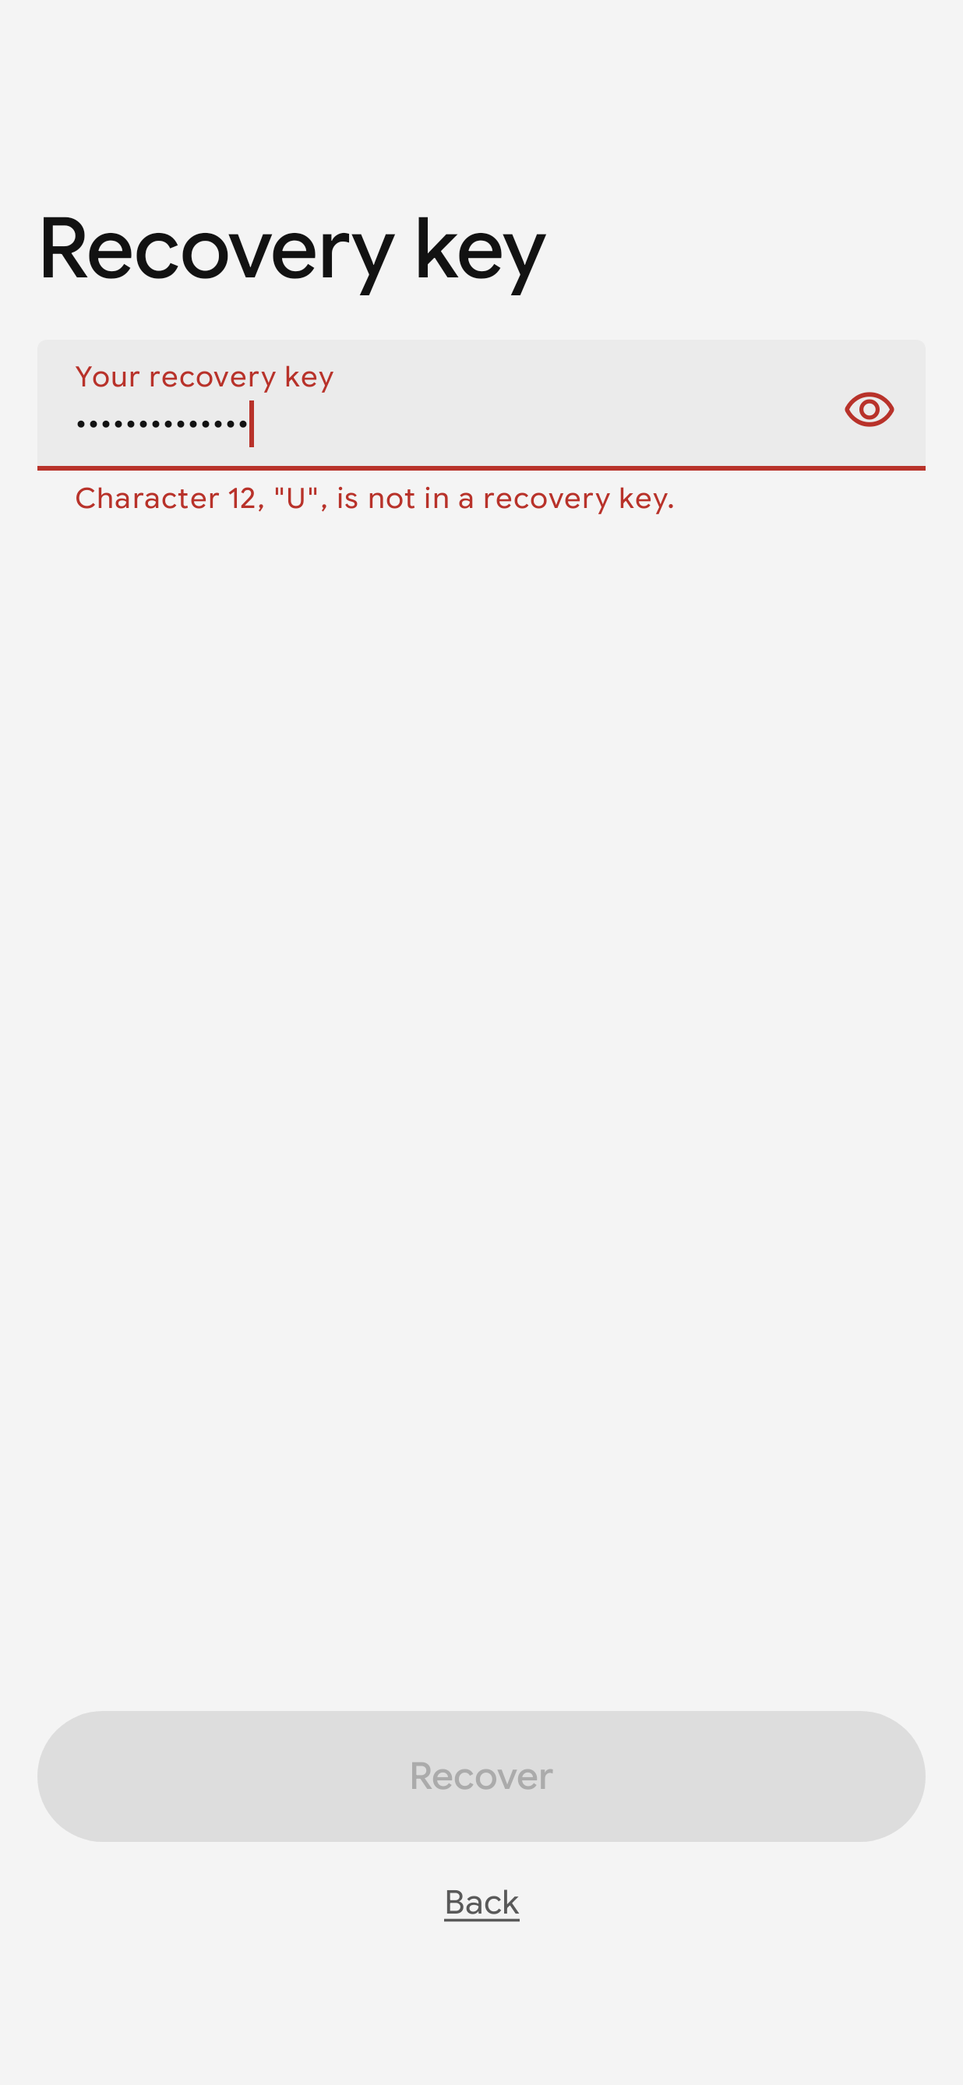
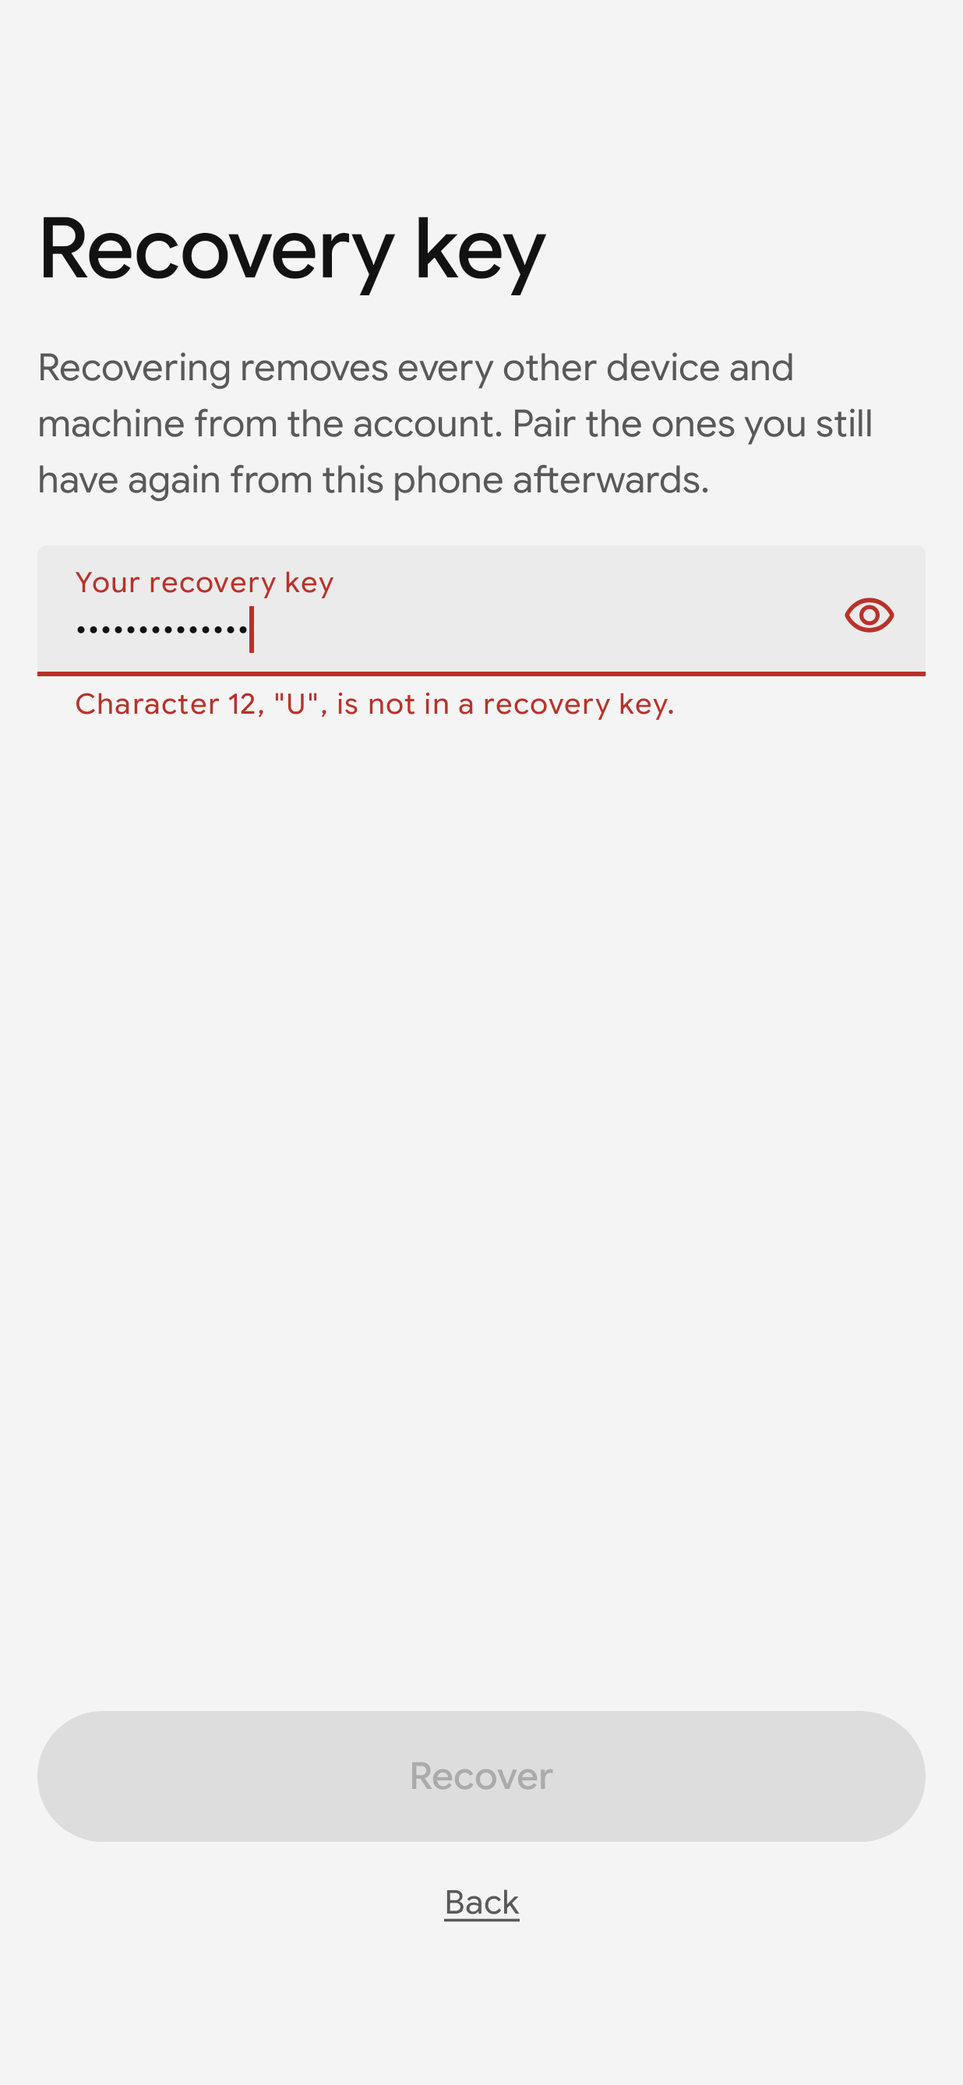
Protocol: recovery revokes machines too; a confirmation names the key it confirms; Android recovers onto its pin (#348, #363 review)

Changed region(s): [[0.0307, 0.1551, 0.9223, 0.2481], [0.0615, 0.2791, 0.7071, 0.3412], [0.8916, 0.2791, 0.9223, 0.3102]]

diff --git a/packages/protocol/src/directory.ts b/packages/protocol/src/directory.ts
@@ -56,7 +56,7 @@ export interface VerifyOptions {
  * - entry 0 adds a device, is signed by that device's own key and by the recovery key it names;
  * - each later entry is signed by an active device or by the recovery key, has the next `seq`
  *   and the previous entry's hash as `prev`;
- * - machines sign no entries; the recovery key adds a device, revoking every other one, and
+ * - machines sign no entries; the recovery key adds a device, revoking every other member, and
  *   confirms its own replacement, nothing else (`SIGNED_BY`);
  * - a new recovery key is proposed by a device, signed by itself, and confirmed by the current
  *   recovery key; from then on only the new key counts;
@@ -175,10 +175,9 @@ function applyEntry(dir: Directory, env: SignedEnvelope, i: number): Directory {
     case "recover": {
       if (body.member.role !== "device")
         throw new ProtocolError("signer-not-allowed", `entry ${i}: recovery adds devices only`);
-      // Every device is lost, or in someone else's hands: none stays, so a chain a server cut
-      // short of a revocation cannot bring a revoked device back (#363).
-      for (const [id, e] of dir.members)
-        if (e.active && e.member.role === "device") members.set(id, { ...e, active: false });
+      // Every device is lost, or in someone else's hands: no member stays, machines included, so
+      // a chain a server cut short of a revocation cannot bring a revoked one back (#363).
+      for (const [id, e] of dir.members) if (e.active) members.set(id, { ...e, active: false });
       addDevice(body.member);
       next.pendingRecovery = undefined;
       return next;
@@ -203,7 +202,7 @@ function applyEntry(dir: Directory, env: SignedEnvelope, i: number): Directory {
     }
     case "recovery-confirm": {
       const pending = dir.pendingRecovery;
-      if (!pending || body.proposal !== pending.seq)
+      if (!pending || body.proposal !== pending.seq || body.recoveryPk !== pending.recoveryPk)
         throw new ProtocolError("bad-recovery", `entry ${i}: no pending proposal ${body.proposal}`);
       next.recoveryPk = pending.recoveryPk;
       next.recoverySet = { seq: i, by: pending.by, at: body.at };
@@ -279,7 +278,7 @@ type Change =
   | { op: "revoke"; id: string }
   | { op: "recover"; member: Member }
   | { op: "recovery"; recoveryPk: string }
-  | { op: "recovery-confirm"; proposal: number };
+  | { op: "recovery-confirm"; proposal: number; recoveryPk: string };
 
 function nextBody(dir: Directory, at: string, change: Change): DirectoryEntry {
   return { v: 1, account: dir.account, seq: dir.length, prev: dir.head, at, ...change };
@@ -327,7 +326,7 @@ export function revokeEntryAsync(
   return signAsync("directory", nextBody(dir, at, { op: "revoke", id }), signer.id, signer.sign);
 }
 
-/** Adds `member`, a device, with the recovery private key, and revokes every other device. */
+/** Adds `member`, a device, with the recovery private key, and revokes every other member. */
 export function recoverEntry(
   dir: Directory,
   recoveryKey: Uint8Array,
@@ -335,12 +334,6 @@ export function recoverEntry(
   at: string,
 ): SignedEnvelope {
   return sign("directory", nextBody(dir, at, { op: "recover", member }), RECOVERY, recoveryKey);
-}
-
-/** The pending proposal's seq, which a confirmation names. */
-function pendingSeq(dir: Directory): number {
-  if (!dir.pendingRecovery) throw new ProtocolError("bad-recovery", "no pending proposal");
-  return dir.pendingRecovery.seq;
 }
 
 /**
@@ -370,12 +363,19 @@ export function recoveryEntry(
   return withRecoverySig(env, recovery.privateKey);
 }
 
-/** Confirms the pending proposal with the current recovery private key. */
+/**
+ * Confirms the pending proposal of `recoveryPk` with the current recovery private key; refuses
+ * when another proposal replaced it, so the owner never confirms a key they did not make.
+ */
 export function recoveryConfirmEntry(
   dir: Directory,
   recoveryKey: Uint8Array,
+  recoveryPk: string,
   at: string,
 ): SignedEnvelope {
-  const change = { op: "recovery-confirm", proposal: pendingSeq(dir) } as const;
+  const pending = dir.pendingRecovery;
+  if (pending?.recoveryPk !== recoveryPk)
+    throw new ProtocolError("bad-recovery", "the pending proposal is not this key");
+  const change = { op: "recovery-confirm", proposal: pending.seq, recoveryPk } as const;
   return sign("directory", nextBody(dir, at, change), RECOVERY, recoveryKey);
 }

diff --git a/android/app/src/main/kotlin/dev/starbridge/app/protocol/Directory.kt b/android/app/src/main/kotlin/dev/starbridge/app/protocol/Directory.kt
@@ -53,7 +53,7 @@ class Directories(private val sodium: Sodium, private val envelopes: Envelopes) 
      * Replays the chain and checks every rule packages/protocol checks: a self-signed genesis
      * co-signed by the recovery key it names; each later entry signed by an active device or the
      * recovery key, with the next `seq` and the previous hash; machines sign nothing, the
-     * recovery key adds a device, revoking every other one, and confirms its own replacement
+     * recovery key adds a device, revoking every other member, and confirms its own replacement
      * ([SIGNED_BY]); keys and ids are never reused, revoked members stay revoked.
      */
     fun verify(entries: List<JsonElement>, account: String? = null, pin: Pin? = null, recoveryPk: String? = null): Directory {
@@ -135,9 +135,9 @@ class Directories(private val sodium: Sodium, private val envelopes: Envelopes) 
             "recover" -> {
                 val m = body.member!!
                 if (m.role != "device") throw ProtocolException("signer-not-allowed", "entry $i: recovery adds devices only")
-                // Every device is lost, or in someone else's hands: none stays, so a chain a server
-                // cut short of a revocation cannot bring a revoked device back (#363).
-                for ((id, e) in dir.members) if (e.active && e.member.role == "device") members[id] = DirectoryMember(e.member, false)
+                // Every device is lost, or in someone else's hands: no member stays, machines included,
+                // so a chain a server cut short of a revocation cannot bring a revoked one back (#363).
+                for ((id, e) in dir.members) if (e.active) members[id] = DirectoryMember(e.member, false)
                 addDevice(m)
                 pending = null
             }
@@ -158,7 +158,7 @@ class Directories(private val sodium: Sodium, private val envelopes: Envelopes) 
             }
             "recovery-confirm" -> {
                 val p = pending
-                if (p == null || body.proposal != p.seq) throw ProtocolException("bad-recovery", "entry $i: no pending proposal ${body.proposal}")
+                if (p == null || body.proposal != p.seq || body.recoveryPk != p.recoveryPk) throw ProtocolException("bad-recovery", "entry $i: no pending proposal ${body.proposal}")
                 recoveryPk = p.recoveryPk
                 recoverySet = RecoveryChange(i, p.recoveryPk, p.by, body.at)
                 pending = null
@@ -203,13 +203,17 @@ class Directories(private val sodium: Sodium, private val envelopes: Envelopes) 
         return env.copy(recoverySig = toB64(recoverySig))
     }
 
-    /** Confirms the pending proposal with the current recovery private key. */
-    fun recoveryConfirmEntry(dir: Directory, recoveryKey: ByteArray, at: String): SignedEnvelope {
-        val pending = dir.pendingRecovery ?: throw ProtocolException("bad-recovery", "no pending proposal")
-        return envelopes.sign("directory", entryBase(dir, at, "recovery-confirm") { put("proposal", pending.seq) }, RECOVERY, recoveryKey)
+    /**
+     * Confirms the pending proposal of [recoveryPk] with the current recovery private key; refuses
+     * when another proposal replaced it, so the owner never confirms a key they did not make.
+     */
+    fun recoveryConfirmEntry(dir: Directory, recoveryKey: ByteArray, recoveryPk: String, at: String): SignedEnvelope {
+        val pending = dir.pendingRecovery
+        if (pending?.recoveryPk != recoveryPk) throw ProtocolException("bad-recovery", "the pending proposal is not this key")
+        return envelopes.sign("directory", entryBase(dir, at, "recovery-confirm") { put("proposal", pending.seq); put("recoveryPk", recoveryPk) }, RECOVERY, recoveryKey)
     }
 
-    /** Adds [member], a device, with the recovery private key, and revokes every other device. */
+    /** Adds [member], a device, with the recovery private key, and revokes every other member. */
     fun recoverEntry(dir: Directory, recoveryKey: ByteArray, member: Member, at: String): SignedEnvelope =
         envelopes.sign("directory", entryBase(dir, at, "recover") { put("member", memberJson(member)) }, RECOVERY, recoveryKey)
 

diff --git a/packages/protocol/scripts/gen-vectors.ts b/packages/protocol/scripts/gen-vectors.ts
@@ -186,7 +186,9 @@ export async function buildVectors(): Promise<Record<string, unknown>> {
       make(verifyDirectory(entries)),
     ];
     const proposed = with_(chain, (d) => recoveryEntry(d, signer(phone), newRec, T(10)));
-    const byOldKey = with_(proposed, (d) => recoveryConfirmEntry(d, recovery.privateKey, T(10, 1)));
+    const byOldKey = with_(proposed, (d) =>
+      recoveryConfirmEntry(d, recovery.privateKey, newRecPk, T(10, 1)),
+    );
     const replaced = verifyDirectory(byOldKey);
     const proposalBody = (d: Directory, pk: string) =>
       nextBody(d, { op: "recovery", recoveryPk: pk });
@@ -196,8 +198,8 @@ export async function buildVectors(): Promise<Record<string, unknown>> {
         sodium.crypto_sign_detached(signatureMessage("directory", RECOVERY, env.body), key),
       ),
     });
-    const confirmBody = (d: Directory, proposal: number) =>
-      nextBody(d, { op: "recovery-confirm", proposal });
+    const confirmBody = (d: Directory, proposal: number, pk = newRecPk) =>
+      nextBody(d, { op: "recovery-confirm", proposal, recoveryPk: pk });
     const proposedByPhone2 = with_(chain, (d) => recoveryEntry(d, signer(phone2), newRec, T(10)));
     const revokedProposer = with_(proposedByPhone2, (d) =>
       revokeEntry(d, signer(phone), "phone2", T(10, 1)),
@@ -352,17 +354,33 @@ export async function buildVectors(): Promise<Record<string, unknown>> {
         expect: { error: "signer-not-allowed" },
       },
       {
+        name: "confirmation naming another key than the pending proposal",
+        entries: [
+          ...proposed,
+          signRaw(
+            confirmBody(
+              verifyDirectory(proposed),
+              next.length,
+              toB64(recoveryKeyPair(seed(31)).publicKey),
+            ),
+            RECOVERY,
+            recovery.privateKey,
+          ),
+        ],
+        expect: { error: "bad-recovery" },
+      },
+      {
         name: "confirmation with no proposal",
         entries: [...chain, signRaw(confirmBody(next, 1), RECOVERY, recovery.privateKey)],
         expect: { error: "bad-recovery" },
       },
       {
-        name: "recovery revokes every other device",
+        name: "recovery revokes every other member, machines too",
         entries: recovered,
         expect: ok(verifyDirectory(recovered)),
       },
       {
-        name: "recovery onto a chain cut short of a revocation keeps that device revoked",
+        name: "recovery onto a chain cut short of a revocation keeps that member revoked",
         entries: cutShort,
         expect: ok(verifyDirectory(cutShort)),
       },

diff --git a/server/test/directory.test.ts b/server/test/directory.test.ts
@@ -186,9 +186,13 @@ test("replacing the recovery key: the old key confirms, then signs nothing more 
     append(s, token, make(await directory(s, token)));
 
   expect((await step((d) => recoveryEntry(d, phone, newRecovery, at))).status).toBe(201);
-  expect((await step((d) => recoveryConfirmEntry(d, acct.recovery.privateKey, at))).status).toBe(
-    201,
-  );
+  expect(
+    (
+      await step((d) =>
+        recoveryConfirmEntry(d, acct.recovery.privateKey, toB64(newRecovery.publicKey), at),
+      )
+    ).status,
+  ).toBe(201);
   expect((await directory(s, token)).recoveryPk).toBe(toB64(newRecovery.publicKey));
 
   const refused = await step((d) => addEntry(d, oldKey, memberOf("thief").member, at));
@@ -230,6 +234,7 @@ test("only the recovery key confirms a replacement, and it revokes no one (#348,
       at,
       op: "recovery-confirm",
       proposal: proposed.pendingRecovery?.seq as number,
+      recoveryPk: proposed.pendingRecovery?.recoveryPk as string,
     },
     laptop.id,
     laptop.keys.sign.privateKey,
@@ -252,10 +257,11 @@ test("only the recovery key confirms a replacement, and it revokes no one (#348,
   expect(r.json.error).toBe("revoked-signer");
 });
 
-test("recovery revokes every other device and ends their sessions (#363)", async () => {
+test("recovery revokes every other member, machines too, and ends their sessions (#363)", async () => {
   const s = await makeServer();
   const acct = await setupAccount(s);
   const laptop = await pair(s, acct, "laptop", "device", await signIn(s));
+  const devbox = await pair(s, acct, "devbox", "machine");
   const fresh = await signIn(s);
   const { member } = memberOf("new-phone");
   const r = await append(
@@ -266,5 +272,6 @@ test("recovery revokes every other device and ends their sessions (#363)", async
   expect(r.status).toBe(201);
   expect((await s.call("GET", "/v1/me", { token: fresh })).json.member).toBe("new-phone");
   expect((await s.call("GET", "/v1/me", { token: laptop.token })).status).toBe(401);
+  expect((await s.call("GET", "/v1/me", { token: devbox.token })).status).toBe(401);
   expect((await s.call("GET", "/v1/me", { token: acct.device.token })).status).toBe(401);
 });

diff --git a/android/app/src/main/kotlin/dev/starbridge/app/data/ServerStore.kt b/android/app/src/main/kotlin/dev/starbridge/app/data/ServerStore.kt
@@ -544,8 +544,9 @@ class ServerStore(
     override fun recover(words: String) = run {
         val recovery = sodium.signSeedKeyPair(recoverySignSeed(RecoveryKeys.seed(words, sodium), sodium))
         val entries = api().directory(0)
-        // The chain's current recovery key must be this one, whose own signature a server cannot fake.
-        val dir = directories.verify(entries, saved.account, recoveryPk = toB64(recovery.public))
+        // The chain's current recovery key must be this one, whose own signature a server cannot
+        // fake; a phone that was a device before keeps the server from serving it a shorter chain.
+        val dir = directories.verify(entries, saved.account, saved.pin, recoveryPk = toB64(recovery.public))
         // The keys made for an earlier attempt stay until the chain holds them: when its reply was
         // lost, the server has bound the session to that member, and a retry finds it there (#274).
         // Only while those keys are still this phone's, and the member was not revoked since.
@@ -554,7 +555,7 @@ class ServerStore(
         val all = if (dir.members[member.id]?.active == true) {
             entries
         } else {
-            // Revokes every other device: recovery means they are lost, or in someone else's hands (#363).
+            // Revokes every other member: recovery means they are lost, or in someone else's hands (#363).
             val entry = directories.recoverEntry(dir, recovery.secret, member, now())
             api().append(entry)
             entries + ProtocolJson.encodeToJsonElement(entry)

diff --git a/web/src/lib/device.ts b/web/src/lib/device.ts
@@ -352,7 +352,7 @@ export async function recover(account: string, name: string, typed: string): Pro
         throw new Error("This is a recovery key, but not this account's current one.");
       throw e;
     }
-    // Revokes every other device: recovery means they are lost, or in someone else's hands (#363).
+    // Revokes every other member: recovery means they are lost, or in someone else's hands (#363).
     const entry = recoverEntry(dir, recovery.privateKey, member, now());
     const next = verifyDirectory([...entries, entry], { account });
     // Pending until the append lands: a failed one must not replace keys that still work (#283).
@@ -768,7 +768,7 @@ export function devices(ctx: Ctx): Device[] {
   const addedAt = new Map<string, string>();
   for (const env of ctx.entries) {
     const body = DirectoryEntry.parse(JSON.parse(env.body));
-    if (body.op === "add") addedAt.set(body.member.id, body.at);
+    if (body.op === "add" || body.op === "recover") addedAt.set(body.member.id, body.at);
   }
   return [...ctx.dir.members.values()].map(({ member, active }) => ({
     ...member,

diff --git a/packages/protocol/src/schemas.ts b/packages/protocol/src/schemas.ts
@@ -47,8 +47,8 @@ export const RevokeEntry = z.object({
 
 /**
  * Recovery, when every device is lost: signed by the recovery key, it adds `member`, a device,
- * and revokes every other device, so a chain a server cut short of a revocation cannot bring a
- * revoked device back (#363).
+ * and revokes every other member, machines included, so a chain a server cut short of a
+ * revocation cannot bring a revoked one back (#363).
  */
 export const RecoverEntry = z.object({
   ...EntryBase,
@@ -67,8 +67,9 @@ export const RecoveryEntry = z.object({
 export const RecoveryConfirmEntry = z.object({
   ...EntryBase,
   op: z.literal("recovery-confirm"),
-  /** The proposal's `seq`. */
+  /** The proposal's `seq`, and the key it proposed, so a confirmation names what it approves. */
   proposal: z.number().int().nonnegative(),
+  recoveryPk: B64,
 });
 
 export const DirectoryEntry = z.discriminatedUnion("op", [

diff --git a/web/src/lib/recoveryKey.test.ts b/web/src/lib/recoveryKey.test.ts
@@ -9,6 +9,7 @@ import {
   recoveryKey,
   recoveryKeyPair,
   type SignedEnvelope,
+  toB64,
   verifyDirectory,
 } from "@starbridge/protocol";
 import { LiveServer } from "@starbridge/server/test-support";
@@ -63,7 +64,14 @@ test("once the key is replaced, the old one recovers nothing; the new one does, 
   const now = new Date().toISOString();
   const phone = { id: live.owner.device.id, signKey: live.owner.device.keys.sign.privateKey };
   await phoneAppends((d) => recoveryEntry(d, phone, recoveryKeyPair(seed), now));
-  await phoneAppends((d) => recoveryConfirmEntry(d, live.owner.recovery.privateKey, now));
+  await phoneAppends((d) =>
+    recoveryConfirmEntry(
+      d,
+      live.owner.recovery.privateKey,
+      toB64(recoveryKeyPair(seed).publicKey),
+      now,
+    ),
+  );
 
   await expect(
     device.recover(account, "Thief", recoveryKey(live.owner.recoverySeed)),

diff --git a/android/app/src/main/kotlin/dev/starbridge/app/ui/setup/SetupScreen.kt b/android/app/src/main/kotlin/dev/starbridge/app/ui/setup/SetupScreen.kt
@@ -284,7 +284,7 @@ private fun Recover(busy: Boolean, actions: SetupActions, modifier: Modifier, on
             Column(Modifier.padding(start = Spacing.s4, end = Spacing.s4, top = 48.dp), verticalArrangement = Arrangement.spacedBy(Spacing.s4)) {
                 Title("Recovery key")
                 Text(
-                    "Recovering removes every other device from the account. Add the ones you still have again from this phone afterwards.",
+                    "Recovering removes every other device and machine from the account. Pair the ones you still have again from this phone afterwards.",
                     style = StarbridgeTheme.type.body,
                     color = MaterialTheme.colorScheme.onSurfaceVariant,
                 )

diff --git a/android/app/src/main/kotlin/dev/starbridge/app/protocol/Schemas.kt b/android/app/src/main/kotlin/dev/starbridge/app/protocol/Schemas.kt
@@ -100,7 +100,11 @@ data class DirectoryEntry(
                 schema(recoveryPk != null, "recoveryPk")
                 b64(recoveryPk!!, "recoveryPk")
             }
-            "recovery-confirm" -> schema(proposal != null && proposal >= 0, "proposal")
+            "recovery-confirm" -> {
+                schema(proposal != null && proposal >= 0, "proposal")
+                schema(recoveryPk != null, "recoveryPk")
+                b64(recoveryPk!!, "recoveryPk")
+            }
             // An op this client does not know: refused, since skipping a recovery confirmation
             // would keep a replaced key trusted (PROTOCOL.md, "Directory").
             else -> schema(false, "op")

diff --git a/cli/test/directory.test.ts b/cli/test/directory.test.ts
@@ -236,7 +236,9 @@ test("a machine follows a recovery key replacement and still seals to the device
   const a = await paired(server);
   const fresh = recoveryKeyPair(generateRecoverySeed());
   await phoneAppends((dir, signer) => recoveryEntry(dir, signer, fresh, now()));
-  await phoneAppends((dir) => recoveryConfirmEntry(dir, server.owner.recovery.privateKey, now()));
+  await phoneAppends((dir) =>
+    recoveryConfirmEntry(dir, server.owner.recovery.privateKey, toB64(fresh.publicKey), now()),
+  );
   const dir = await refreshDirectory(a, session(a));
   expect(dir.recoveryPk).toBe(toB64(fresh.publicKey));
   expect(dir.recoverySet.by).toBe("phone");

diff --git a/web/src/components/Gate.tsx b/web/src/components/Gate.tsx
@@ -313,8 +313,8 @@ function Join({ account, stale }: { account: string; stale: boolean }) {
         >
           <NameField value={name} onChange={setName} />
           <p className={`t-small ${s.lede}`}>
-            Recovering removes every other device from the account. Add the ones you still have
-            again from this browser afterwards.
+            Recovering removes every other device and machine from the account. Pair the ones you
+            still have again from this browser afterwards.
           </p>
           <label className={`t-meta ${s.dim}`} htmlFor="recovery-key">
             Your recovery key
